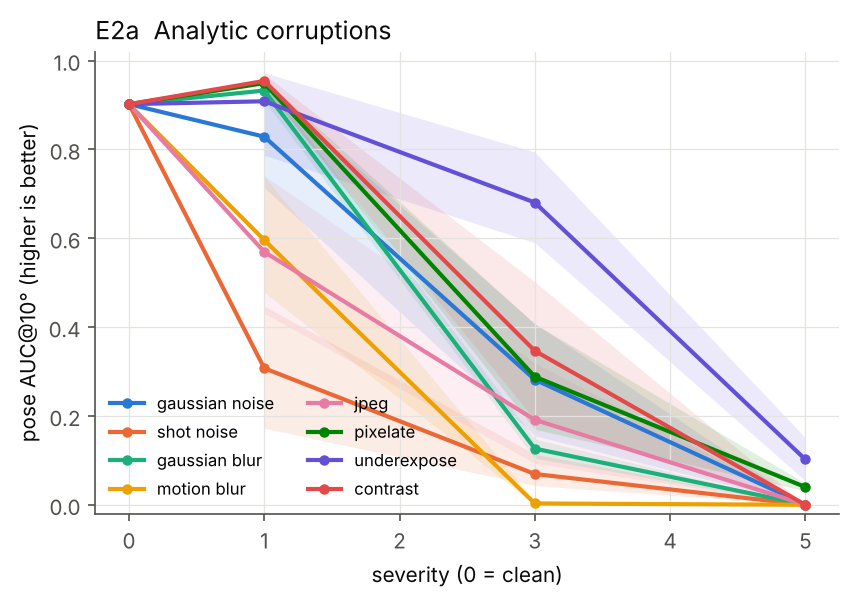
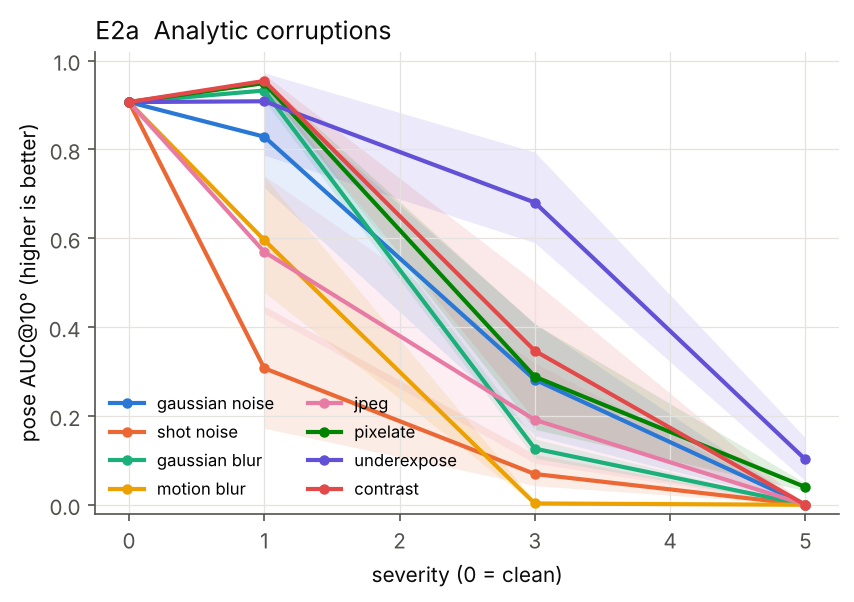
All CPU conditions done for 3 seeds x 2 scenes; dedupe runs in analysis
Claude-Session: https://claude.ai/code/session_01DwFUuxyVwkhujN2CBgQS9g

diff --git a/scripts/analyze.py b/scripts/analyze.py
@@ -45,7 +45,9 @@ def load(raw: Path, pattern: str) -> pd.DataFrame:
     if not fs:
         return pd.DataFrame()
     df = pd.concat([pd.read_csv(f) for f in fs], ignore_index=True)
-    return df
+    # a run can be logged twice if two resumable queues overlapped: keep the first
+    key = [k for k in ("exp", "scene", "cond", "seq", "query_seq", "anchor", "perturb", "severity", "seed") if k in df.columns]
+    return df.drop_duplicates(subset=key, keep="first").reset_index(drop=True)
 
 
 def agg(df, keys, metrics=(METRIC, "reg_frac")):

diff --git a/results/summary.md b/results/summary.md
@@ -5,7 +5,7 @@ Metric: pose AUC@10° over all input image pairs (unregistered = failure) and re
 
 ## Clean baseline
 
-38 runs, AUC@10 = 0.902 (std 0.210), registration 0.944.
+40 runs, AUC@10 = 0.907 (std 0.202), registration 0.972.
 
 
 ## E2a  Analytic corruptions
@@ -57,27 +57,27 @@ Metric: pose AUC@10° over all input image pairs (unregistered = failure) and re
 
 | perturb | severity | n | auc@10 | reg_frac |
 |---|---|---|---|---|
-| fog | 1 | 5 | 0.966 [0.95, 0.98] | 1.000 [1.00, 1.00] |
-| fog | 3 | 5 | 0.672 [0.57, 0.83] | 0.868 [0.78, 0.96] |
-| fog | 5 | 5 | 0.228 [0.12, 0.33] | 0.479 [0.35, 0.61] |
-| harsh_sun | 1 | 4 | 0.977 [0.97, 0.98] | 1.000 [1.00, 1.00] |
-| harsh_sun | 3 | 4 | 0.344 [0.21, 0.48] | 0.608 [0.47, 0.74] |
-| harsh_sun | 5 | 4 | 0.163 [0.00, 0.32] | 0.365 [0.10, 0.63] |
-| heat_shimmer | 1 | 5 | 0.970 [0.97, 0.97] | 1.000 [1.00, 1.00] |
-| heat_shimmer | 3 | 4 | 0.962 [0.95, 0.97] | 1.000 [1.00, 1.00] |
-| heat_shimmer | 5 | 4 | 0.748 [0.61, 0.89] | 0.939 [0.83, 1.00] |
-| night | 1 | 5 | 0.822 [0.68, 0.97] | 1.000 [1.00, 1.00] |
-| night | 3 | 5 | 0.398 [0.23, 0.54] | 0.640 [0.48, 0.77] |
-| night | 5 | 5 | 0.006 [0.00, 0.01] | 0.081 [0.04, 0.13] |
-| rain | 1 | 5 | 0.895 [0.75, 0.97] | 1.000 [1.00, 1.00] |
-| rain | 3 | 5 | 0.444 [0.32, 0.57] | 0.767 [0.63, 0.91] |
-| rain | 5 | 5 | 0.184 [0.08, 0.29] | 0.429 [0.30, 0.56] |
-| sandstorm | 1 | 5 | 0.965 [0.96, 0.97] | 1.000 [1.00, 1.00] |
-| sandstorm | 3 | 5 | 0.716 [0.56, 0.87] | 0.868 [0.78, 0.96] |
-| sandstorm | 5 | 5 | 0.225 [0.12, 0.33] | 0.470 [0.34, 0.60] |
-| snow | 1 | 5 | 0.521 [0.38, 0.61] | 0.748 [0.64, 0.82] |
-| snow | 3 | 5 | 0.247 [0.10, 0.39] | 0.490 [0.32, 0.66] |
-| snow | 5 | 5 | 0.000 [0.00, 0.00] | 0.016 [0.00, 0.03] |
+| fog | 1 | 6 | 0.969 [0.95, 0.98] | 1.000 [1.00, 1.00] |
+| fog | 3 | 6 | 0.722 [0.59, 0.86] | 0.890 [0.82, 0.96] |
+| fog | 5 | 6 | 0.206 [0.12, 0.29] | 0.453 [0.34, 0.56] |
+| harsh_sun | 1 | 6 | 0.977 [0.97, 0.98] | 1.000 [1.00, 1.00] |
+| harsh_sun | 3 | 6 | 0.344 [0.26, 0.43] | 0.608 [0.52, 0.70] |
+| harsh_sun | 5 | 6 | 0.161 [0.05, 0.27] | 0.359 [0.17, 0.54] |
+| heat_shimmer | 1 | 6 | 0.972 [0.97, 0.98] | 1.000 [1.00, 1.00] |
+| heat_shimmer | 3 | 6 | 0.965 [0.96, 0.97] | 1.000 [1.00, 1.00] |
+| heat_shimmer | 5 | 6 | 0.767 [0.65, 0.88] | 0.951 [0.88, 1.00] |
+| night | 1 | 6 | 0.846 [0.72, 0.97] | 1.000 [1.00, 1.00] |
+| night | 3 | 6 | 0.374 [0.24, 0.49] | 0.625 [0.49, 0.73] |
+| night | 5 | 6 | 0.005 [0.00, 0.01] | 0.076 [0.04, 0.12] |
+| rain | 1 | 6 | 0.897 [0.78, 0.97] | 1.000 [1.00, 1.00] |
+| rain | 3 | 6 | 0.443 [0.34, 0.55] | 0.752 [0.64, 0.87] |
+| rain | 5 | 6 | 0.163 [0.08, 0.25] | 0.403 [0.29, 0.52] |
+| sandstorm | 1 | 6 | 0.966 [0.96, 0.97] | 1.000 [1.00, 1.00] |
+| sandstorm | 3 | 6 | 0.758 [0.63, 0.89] | 0.890 [0.82, 0.96] |
+| sandstorm | 5 | 6 | 0.198 [0.11, 0.29] | 0.437 [0.33, 0.55] |
+| snow | 1 | 6 | 0.548 [0.43, 0.63] | 0.790 [0.68, 0.89] |
+| snow | 3 | 6 | 0.216 [0.09, 0.35] | 0.454 [0.32, 0.61] |
+| snow | 5 | 6 | 0.000 [0.00, 0.00] | 0.013 [0.00, 0.03] |
 
 
 ## E3  Super-resolution
@@ -86,12 +86,12 @@ Metric: pose AUC@10° over all input image pairs (unregistered = failure) and re
 
 | severity | method | n | auc@10 | reg_frac |
 |---|---|---|---|---|
-| 4 | bicubic | 7 | 0.204 [0.07, 0.34] | 0.404 [0.24, 0.57] |
-| 4 | lowres | 7 | 0.019 [0.01, 0.04] | 0.107 [0.04, 0.21] |
+| 4 | bicubic | 6 | 0.238 [0.10, 0.38] | 0.472 [0.33, 0.61] |
+| 4 | lowres | 6 | 0.023 [0.01, 0.04] | 0.125 [0.04, 0.21] |
 | 4 | realesrgan | 1 | 0.174 | 0.440 |
-| 4 | unsharp_bicubic | 7 | 0.233 [0.08, 0.39] | 0.379 [0.18, 0.58] |
-| 8 | bicubic | 7 | 0.026 [0.01, 0.04] | 0.124 [0.05, 0.21] |
-| 8 | lowres | 7 | 0.000 [0.00, 0.00] | 0.032 [0.01, 0.06] |
+| 4 | unsharp_bicubic | 6 | 0.233 [0.08, 0.39] | 0.442 [0.26, 0.62] |
+| 8 | bicubic | 6 | 0.026 [0.01, 0.04] | 0.145 [0.07, 0.21] |
+| 8 | lowres | 6 | 0.000 [0.00, 0.00] | 0.037 [0.01, 0.06] |
 | 8 | unsharp_bicubic | 6 | 0.051 [0.05, 0.05] | 0.245 [0.24, 0.25] |
 
 
@@ -104,12 +104,12 @@ Metric: pose AUC@10° over all input image pairs (unregistered = failure) and re
 | lama_remove | 1 | 1 | 0.970 | 1.000 |
 | lama_remove | 3 | 1 | 0.606 | 1.000 |
 | lama_remove | 5 | 1 | 0.527 | 0.960 |
-| mask | 1 | 4 | 0.971 [0.97, 0.97] | 1.000 [1.00, 1.00] |
-| mask | 3 | 4 | 0.358 [0.21, 0.51] | 0.739 [0.57, 0.92] |
-| mask | 5 | 4 | 0.318 [0.17, 0.47] | 0.679 [0.64, 0.72] |
-| none | 1 | 4 | 0.917 [0.84, 0.97] | 1.000 [1.00, 1.00] |
-| none | 3 | 4 | 0.286 [0.11, 0.46] | 0.963 [0.92, 1.00] |
-| none | 5 | 4 | 0.027 [0.01, 0.05] | 0.831 [0.49, 1.00] |
+| mask | 1 | 6 | 0.972 [0.97, 0.98] | 1.000 [1.00, 1.00] |
+| mask | 3 | 6 | 0.397 [0.28, 0.51] | 0.731 [0.62, 0.85] |
+| mask | 5 | 6 | 0.322 [0.22, 0.42] | 0.681 [0.65, 0.71] |
+| none | 1 | 6 | 0.936 [0.88, 0.97] | 1.000 [1.00, 1.00] |
+| none | 3 | 6 | 0.295 [0.17, 0.42] | 0.942 [0.88, 0.99] |
+| none | 5 | 6 | 0.036 [0.01, 0.06] | 0.888 [0.66, 1.00] |
 
 
 ## E5  Contamination
@@ -123,17 +123,17 @@ Metric: pose AUC@10° over all input image pairs (unregistered = failure) and re
 | crowd | 0.250 | 6 | 0.664 [0.52, 0.82] | 0.946 [0.84, 1.00] |
 | crowd | 0.500 | 6 | 0.298 [0.16, 0.42] | 0.859 [0.73, 0.97] |
 | crowd | 0.750 | 6 | 0.126 [0.07, 0.18] | 0.934 [0.89, 0.97] |
-| crowd | 1.000 | 5 | 0.027 [0.01, 0.04] | 0.995 [0.98, 1.00] |
+| crowd | 1.000 | 6 | 0.023 [0.01, 0.04] | 0.966 [0.91, 1.00] |
 | motion_blur | 0.100 | 6 | 0.599 [0.43, 0.73] | 0.829 [0.75, 0.90] |
 | motion_blur | 0.250 | 6 | 0.285 [0.13, 0.44] | 0.508 [0.34, 0.67] |
 | motion_blur | 0.500 | 6 | 0.028 [0.01, 0.06] | 0.162 [0.10, 0.23] |
 | motion_blur | 0.750 | 6 | 0.003 [0.00, 0.01] | 0.072 [0.06, 0.09] |
 | motion_blur | 1.000 | 6 | 0.000 [0.00, 0.00] | 0.008 [0.00, 0.03] |
-| night | 0.100 | 5 | 0.771 [0.52, 0.95] | 0.940 [0.82, 1.00] |
-| night | 0.250 | 5 | 0.618 [0.42, 0.81] | 0.846 [0.74, 0.96] |
-| night | 0.500 | 5 | 0.263 [0.13, 0.42] | 0.512 [0.38, 0.65] |
-| night | 0.750 | 5 | 0.173 [0.11, 0.27] | 0.422 [0.35, 0.53] |
-| night | 1.000 | 5 | 0.098 [0.06, 0.15] | 0.322 [0.26, 0.39] |
+| night | 0.100 | 6 | 0.803 [0.59, 0.96] | 0.950 [0.85, 1.00] |
+| night | 0.250 | 6 | 0.676 [0.49, 0.86] | 0.872 [0.76, 0.96] |
+| night | 0.500 | 6 | 0.350 [0.16, 0.56] | 0.590 [0.41, 0.77] |
+| night | 0.750 | 6 | 0.203 [0.12, 0.28] | 0.455 [0.36, 0.55] |
+| night | 1.000 | 6 | 0.090 [0.06, 0.13] | 0.308 [0.26, 0.36] |
 
 
 ## E6  Methods
